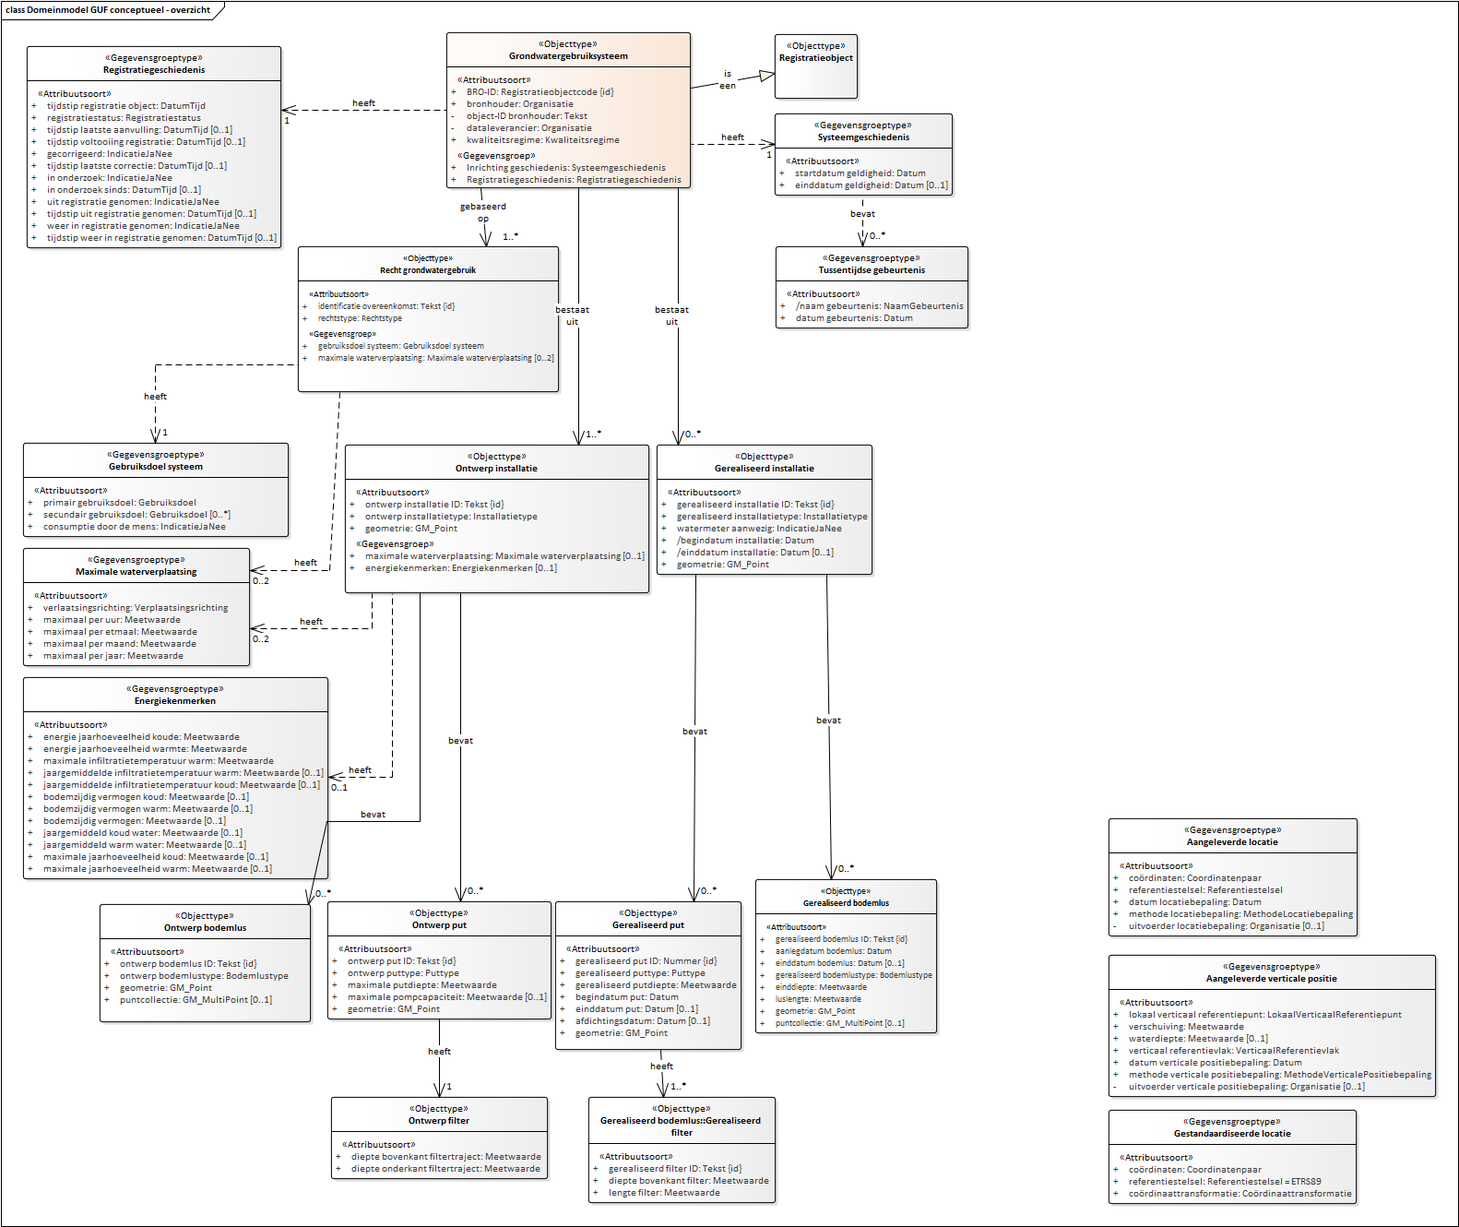
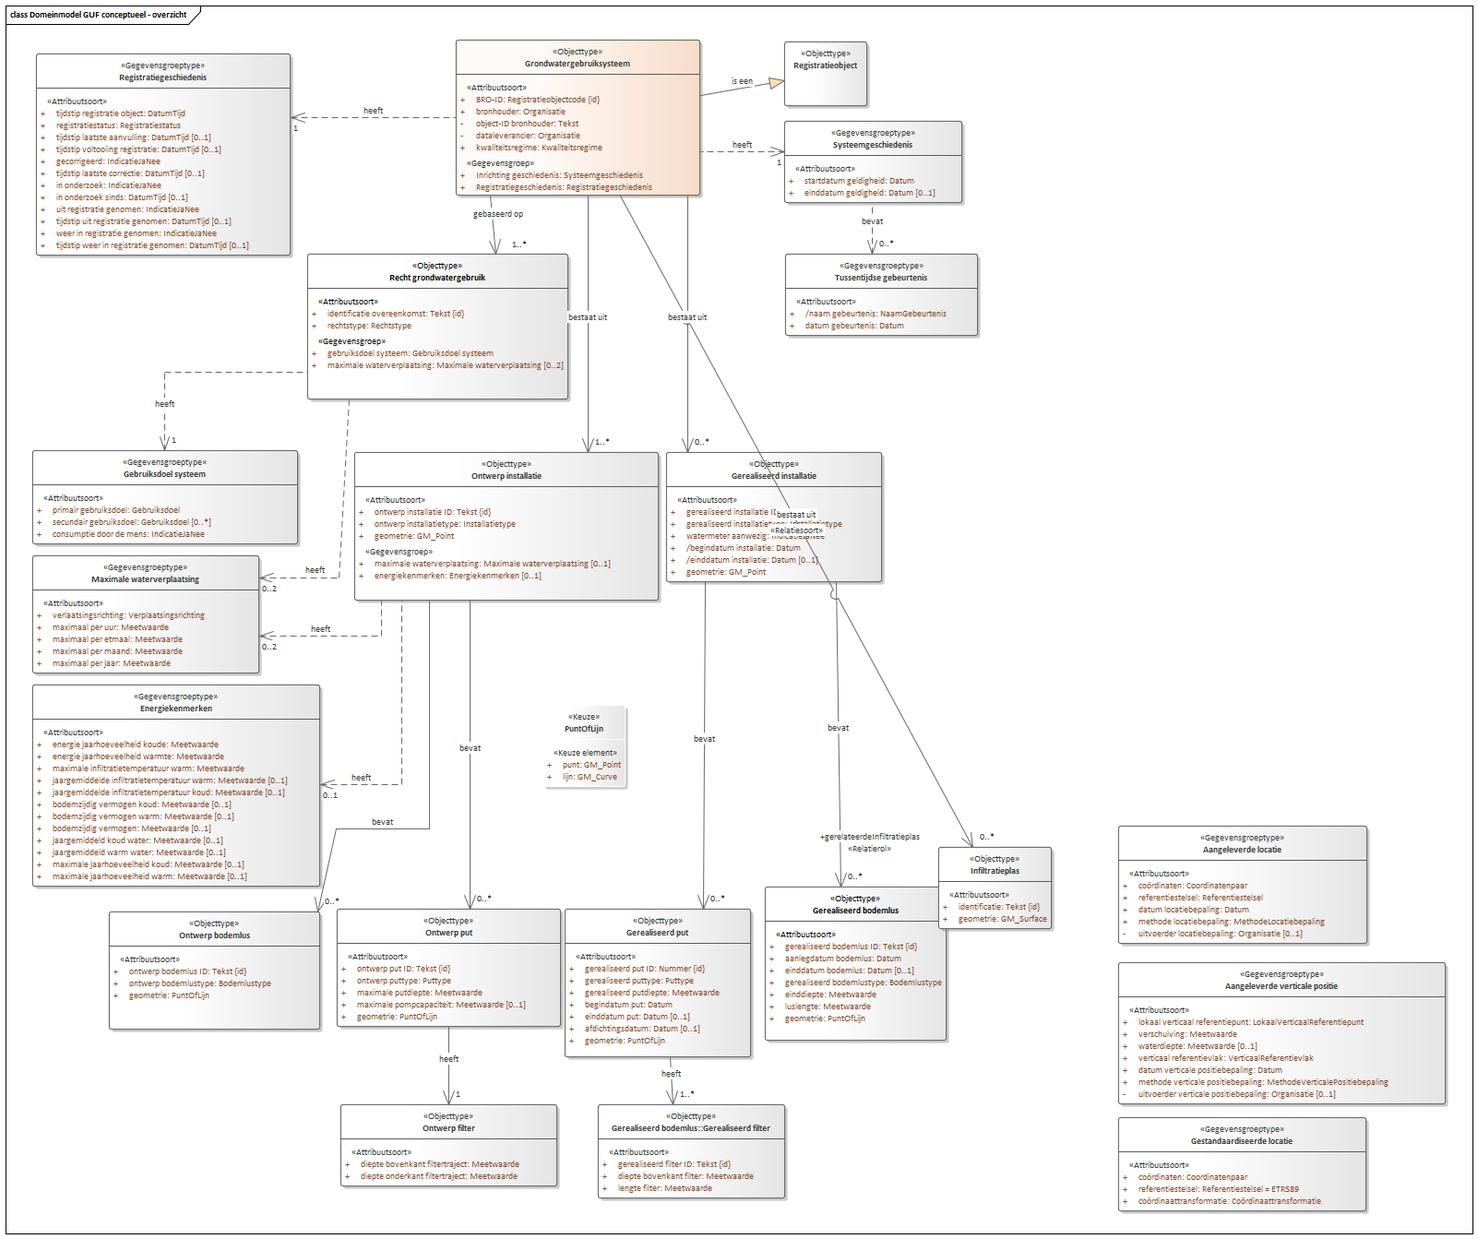
Conceptualmodel-GrondwatergebruikGUFconceptueel-0.1-1-20200401-20201201-100749

diff --git a/data/GUF-cat.msword.html b/data/GUF-cat.msword.html
@@ -15,7 +15,7 @@
    <body>
       <p>Conceptual model/Grondwatergebruik (GUF) conceptueel/20200401</p>
       <p>Imvertor: 1.62.1</p>
-      <p>Model release: Conceptualmodel-GrondwatergebruikGUFconceptueel-0.1-1-20200401-20201130-151610</p>
+      <p>Model release: Conceptualmodel-GrondwatergebruikGUFconceptueel-0.1-1-20200401-20201201-100749</p>
       <hr>
       <section>
          <h1>Artikel 1 Definitie van registratieobject, entiteiten en attributen</h1>
@@ -63,7 +63,7 @@
          <section>
             <h2>Het domeinmodel</h2>
             <section id="">
-               <div class="imageinfo overview"><img src="Images/EAID_56F5F935_4109_4da0_A034_9EA7B40769E1.png" usemap="#imagemap-EAID_56F5F935_4109_4da0_A034_9EA7B40769E1" alt="Diagram "><map name="imagemap-EAID_56F5F935_4109_4da0_A034_9EA7B40769E1"><area shape="rect" alt="Ontwerp filter" coords="359,1189,594,1278" href="#graph_EAID_F9C69DF7_57F6_4a2e_AB62_ABBE414B3C9B"><area shape="rect" alt="Tussentijdse gebeurtenis" coords="841,267,1050,356" href="#graph_EAID_98E530BE_5699_451a_8FC6_9C326ADD0528"><area shape="rect" alt="Systeemgeschiedenis" coords="840,123,1033,212" href="#graph_EAID_2BD94CFC_4D2B_498d_96DC_DF9DE395E7C4"><area shape="rect" alt="Ontwerp bodemlus" coords="108,980,337,1108" href="#graph_EAID_B81BCB5C_B9C7_42d9_9F9E_3F76580BB410"><area shape="rect" alt="Ontwerp put" coords="355,977,598,1105" href="#graph_EAID_FC483397_9430_4114_AE54_A7BE5A654EA9"><area shape="rect" alt="Energiekenmerken" coords="25,734,356,953" href="#graph_EAID_F60FFCA9_A741_4d37_8DFE_FC87122B9777"><area shape="rect" alt="Maximale waterverplaatsing" coords="25,594,271,722" href="#graph_EAID_D88F2231_8D52_4bac_AE7F_55102360A23B"><area shape="rect" alt="Gebruiksdoel systeem" coords="25,480,313,582" href="#graph_EAID_DB9B3E32_EE42_4c47_A5CC_5AE7B58A2D13"><area shape="rect" alt="Gerealiseerd installatie" coords="712,482,946,623" href="#graph_EAID_45C4EF5D_AC27_47cc_926D_7F514776B53D"><area shape="rect" alt="Gestandaardiseerde locatie" coords="1202,1203,1471,1305" href="#graph_EAID_7F1D92D4_092C_4272_8CA2_89F93EA3F12E"><area shape="rect" alt="Aangeleverde verticale positie" coords="1202,1035,1557,1189" href="#graph_EAID_6AA525F0_F1B6_4471_96BE_E1DEF2FCC704"><area shape="rect" alt="Gerealiseerd filter" coords="638,1189,841,1304" href="#graph_EAID_9D151445_53ED_4738_9920_071518BB50C1"><area shape="rect" alt="Recht grondwatergebruik" coords="323,267,606,425" href="#graph_EAID_1A591F8A_2ECC_4122_86C9_26BFA5C5420E"><area shape="rect" alt="Gerealiseerd put" coords="602,977,804,1138" href="#graph_EAID_F75BA1C9_02EB_48e6_B9A8_A018120E2279"><area shape="rect" alt="Gerealiseerd bodemlus" coords="819,953,1016,1120" href="#graph_EAID_D45703EE_CCD5_434c_A478_BFA48D1A9DCB"><area shape="rect" alt="Ontwerp installatie" coords="374,482,704,643" href="#graph_EAID_DB2636FB_090C_4af0_AA40_4301B23795E2"><area shape="rect" alt="Registratiegeschiedenis" coords="29,50,305,269" href="#graph_EAID_C00FA7D7_7F78_413d_80CC_8F5D41996171"><area shape="rect" alt="Aangeleverde locatie" coords="1202,887,1472,1015" href="#graph_EAID_FA55712E_2710_4bb3_A08E_6B62C39189F5"><area shape="rect" alt="Grondwatergebruiksysteem" coords="484,35,749,204" href="#graph_EAID_048DC684_486B_4605_B9CA_40413DB3C9DC"><area shape="rect" alt="Registratieobject" coords="840,37,930,107" href="#graph_EAID_2AC7632D_D0CE_4468_8510_855B506BE12A"></map><p><b>Domeinmodel GUF conceptueel</b></p>
+               <div class="imageinfo overview"><img src="Images/EAID_56F5F935_4109_4da0_A034_9EA7B40769E1.png" usemap="#imagemap-EAID_56F5F935_4109_4da0_A034_9EA7B40769E1" alt="Diagram "><map name="imagemap-EAID_56F5F935_4109_4da0_A034_9EA7B40769E1"><area shape="rect" alt="Infiltratieplas" coords="1017,918,1140,1007" href="#graph_EAID_48E92D7E_DFE4_4e1a_9CBF_EF96B0324D5C"><area shape="rect" alt="Ontwerp filter" coords="369,1197,604,1286" href="#graph_EAID_F9C69DF7_57F6_4a2e_AB62_ABBE414B3C9B"><area shape="rect" alt="Tussentijdse gebeurtenis" coords="851,275,1060,364" href="#graph_EAID_98E530BE_5699_451a_8FC6_9C326ADD0528"><area shape="rect" alt="Systeemgeschiedenis" coords="850,131,1043,220" href="#graph_EAID_2BD94CFC_4D2B_498d_96DC_DF9DE395E7C4"><area shape="rect" alt="Ontwerp bodemlus" coords="118,988,347,1116" href="#graph_EAID_B81BCB5C_B9C7_42d9_9F9E_3F76580BB410"><area shape="rect" alt="Ontwerp put" coords="365,985,608,1113" href="#graph_EAID_FC483397_9430_4114_AE54_A7BE5A654EA9"><area shape="rect" alt="Energiekenmerken" coords="35,742,347,961" href="#graph_EAID_F60FFCA9_A741_4d37_8DFE_FC87122B9777"><area shape="rect" alt="Maximale waterverplaatsing" coords="35,602,281,730" href="#graph_EAID_D88F2231_8D52_4bac_AE7F_55102360A23B"><area shape="rect" alt="Gebruiksdoel systeem" coords="35,488,323,590" href="#graph_EAID_DB9B3E32_EE42_4c47_A5CC_5AE7B58A2D13"><area shape="rect" alt="Gerealiseerd installatie" coords="722,490,956,631" href="#graph_EAID_45C4EF5D_AC27_47cc_926D_7F514776B53D"><area shape="rect" alt="Gestandaardiseerde locatie" coords="1212,1211,1481,1313" href="#graph_EAID_7F1D92D4_092C_4272_8CA2_89F93EA3F12E"><area shape="rect" alt="Aangeleverde verticale positie" coords="1212,1043,1567,1197" href="#graph_EAID_6AA525F0_F1B6_4471_96BE_E1DEF2FCC704"><area shape="rect" alt="Gerealiseerd filter" coords="648,1197,851,1299" href="#graph_EAID_9D151445_53ED_4738_9920_071518BB50C1"><area shape="rect" alt="Recht grondwatergebruik" coords="333,275,616,433" href="#graph_EAID_1A591F8A_2ECC_4122_86C9_26BFA5C5420E"><area shape="rect" alt="Gerealiseerd put" coords="612,985,814,1146" href="#graph_EAID_F75BA1C9_02EB_48e6_B9A8_A018120E2279"><area shape="rect" alt="Gerealiseerd bodemlus" coords="829,961,1026,1128" href="#graph_EAID_D45703EE_CCD5_434c_A478_BFA48D1A9DCB"><area shape="rect" alt="Ontwerp installatie" coords="384,490,714,651" href="#graph_EAID_DB2636FB_090C_4af0_AA40_4301B23795E2"><area shape="rect" alt="Registratiegeschiedenis" coords="39,58,315,277" href="#graph_EAID_C00FA7D7_7F78_413d_80CC_8F5D41996171"><area shape="rect" alt="Aangeleverde locatie" coords="1212,895,1482,1023" href="#graph_EAID_FA55712E_2710_4bb3_A08E_6B62C39189F5"><area shape="rect" alt="Grondwatergebruiksysteem" coords="494,43,759,212" href="#graph_EAID_048DC684_486B_4605_B9CA_40413DB3C9DC"><area shape="rect" alt="Registratieobject" coords="850,45,940,115" href="#graph_EAID_2AC7632D_D0CE_4468_8510_855B506BE12A"></map><p><b>Domeinmodel GUF conceptueel</b></p>
                </div>
             </section>
          </section>
@@ -2797,7 +2797,7 @@
                            </tr>
                            <tr>
                               <th>&nbsp;&nbsp;Naam</th>
-                              <td>GM_Point</td>
+                              <td>PuntOfLijn</td>
                            </tr>
                            <tr>
                               <th>Is afgeleid</th>
@@ -2805,8 +2805,11 @@
                            </tr>
                            <tr>
                               <th>Toelichting</th>
-                              <td>Puntgeometrie gebaseerd op ISO19107 met coördinaten voor de horizontale positie ten
-                                 opzichte van Rijksdriehoekstelsel en de verticale positie ten opzichte van NAP. (EPSG:7415)</td>
+                              <td>Punt- of lijngeometrie gebaseerd op ISO19107 met coördinaten voor de horizontale positie
+                                 ten opzichte van Rijksdriehoekstelsel en de verticale positie ten opzichte van NAP.
+                                 (EPSG:7415)
+                                 
+                                 Bij puntgeometrie wordt de gemiddelde positie van de put opgenomen.</td>
                            </tr>
                         </tbody>
                      </table>
@@ -3070,7 +3073,7 @@
                               <th>Definitie</th>
                               <td>
                                  
-                                 <p>Tweedimensionale (2D) puntgeometrie van de gemiddelde positie van de Ontwerp bodemlus.</p>
+                                 <p>Tweedimensionale (2D) punt- of lijngeometrie van een Ontwerp bodemlus.</p>
                                  </td>
                            </tr>
                            <tr>
@@ -3087,7 +3090,7 @@
                            </tr>
                            <tr>
                               <th>&nbsp;&nbsp;Naam</th>
-                              <td>GM_Point</td>
+                              <td>PuntOfLijn</td>
                            </tr>
                            <tr>
                               <th>Is afgeleid</th>
@@ -3095,55 +3098,8 @@
                            </tr>
                            <tr>
                               <th>Toelichting</th>
-                              <td>Puntgeometrie gebaseerd op ISO19107 met coördinaten ten opzichte van Rijksdriehoekstelsel
+                              <td>Punt- of lijngeometrie gebaseerd op ISO19107 met coördinaten ten opzichte van Rijksdriehoekstelsel
                                  (EPSG:28992).</td>
-                           </tr>
-                        </tbody>
-                     </table>
-                     </section><a class="anchor" id="detail_attribute_Model_Ontwerpbodemlus_puntcollectie"></a><section id="detail_attribute_Model_Ontwerpbodemlus_puntcollectie">
-                     <h4>  puntcollectie</h4>
-                     
-                     <table style="width: 100%;">
-                        <colgroup style="width: 30%;"></colgroup>
-                        <colgroup style="width: 70%;"></colgroup>
-                        <tbody>
-                           <tr>
-                              <th>Type gegeven</th>
-                              <td>Attribuut van Ontwerp bodemlus</td>
-                           </tr>
-                           <tr>
-                              <th>Definitie</th>
-                              <td>
-                                 
-                                 <p>Verzameling van puntgeometrieën die de vorm van een horizontale bodemlus beschrijven.</p>
-                                 </td>
-                           </tr>
-                           <tr>
-                              <th>Juridische status</th>
-                              <td>Authentiek</td>
-                           </tr>
-                           <tr>
-                              <th>Kardinaliteit</th>
-                              <td>0..1</td>
-                           </tr>
-                           <tr>
-                              <th>Domein</th>
-                              <td></td>
-                           </tr>
-                           <tr>
-                              <th>&nbsp;&nbsp;Naam</th>
-                              <td>GM_MultiPoint</td>
-                           </tr>
-                           <tr>
-                              <th>Is afgeleid</th>
-                              <td>Ja</td>
-                           </tr>
-                           <tr>
-                              <th>Toelichting</th>
-                              <td>Multipuntgeometrie gebaseerd op ISO19107.
-                                 
-                                 De puntgeometrieën in de collectie worden in volgorde van beginpunt, eventueel tussenpunten
-                                 en eindpunt opgenomen.</td>
                            </tr>
                         </tbody>
                      </table>
@@ -3780,7 +3736,7 @@
                               <th>Definitie</th>
                               <td>
                                  
-                                 <p>2.5D puntgeometrie van de Gerealiseerde put.</p>
+                                 <p>2.5D punt- of lijngeometrie van de Gerealiseerde put.</p>
                                  </td>
                            </tr>
                            <tr>
@@ -3797,7 +3753,7 @@
                            </tr>
                            <tr>
                               <th>&nbsp;&nbsp;Naam</th>
-                              <td>GM_Point</td>
+                              <td>PuntOfLijn</td>
                            </tr>
                            <tr>
                               <th>Is afgeleid</th>
@@ -3805,8 +3761,9 @@
                            </tr>
                            <tr>
                               <th>Toelichting</th>
-                              <td>Puntgeometrie gebaseerd op ISO19107 met coördinaten voor de horizontale positie ten
-                                 opzichte van Rijksdriehoekstelsel en de verticale positie ten opzichte van NAP. (EPSG:7415)</td>
+                              <td>Punt- of lijngeometrie gebaseerd op ISO19107 met coördinaten voor de horizontale positie
+                                 ten opzichte van Rijksdriehoekstelsel en de verticale positie ten opzichte van NAP.
+                                 (EPSG:7415)</td>
                            </tr>
                         </tbody>
                      </table>
@@ -4282,8 +4239,7 @@
                               <th>Definitie</th>
                               <td>
                                  
-                                 <p>Tweedimensionale (2D) puntgeometrie van de gemiddelde positie van de Gerealiseerde
-                                    bodemlus.</p>
+                                 <p>Tweedimensionale punt- of lijngeometrie van de Gerealiseerde bodemlus.</p>
                                  </td>
                            </tr>
                            <tr>
@@ -4300,7 +4256,7 @@
                            </tr>
                            <tr>
                               <th>&nbsp;&nbsp;Naam</th>
-                              <td>GM_Point</td>
+                              <td>PuntOfLijn</td>
                            </tr>
                            <tr>
                               <th>Is afgeleid</th>
@@ -4308,62 +4264,15 @@
                            </tr>
                            <tr>
                               <th>Toelichting</th>
-                              <td>Puntgeometrie gebaseerd op ISO19107 met coördinaten ten opzichte van Rijksdriehoekstelsel
+                              <td>Punt- of lijngeometrie gebaseerd op ISO19107 met coördinaten ten opzichte van Rijksdriehoekstelsel
                                  (EPSG:28992).</td>
-                           </tr>
-                        </tbody>
-                     </table>
-                     </section><a class="anchor" id="detail_attribute_Model_Gerealiseerdbodemlus_puntcollectie"></a><section id="detail_attribute_Model_Gerealiseerdbodemlus_puntcollectie">
-                     <h4>  puntcollectie</h4>
-                     
-                     <table style="width: 100%;">
-                        <colgroup style="width: 30%;"></colgroup>
-                        <colgroup style="width: 70%;"></colgroup>
-                        <tbody>
-                           <tr>
-                              <th>Type gegeven</th>
-                              <td>Attribuut van Gerealiseerd bodemlus</td>
-                           </tr>
-                           <tr>
-                              <th>Definitie</th>
-                              <td>
-                                 
-                                 <p>Verzameling van puntgeometrieën die de vorm van een horizontale bodemlus beschrijven.</p>
-                                 </td>
-                           </tr>
-                           <tr>
-                              <th>Juridische status</th>
-                              <td>Authentiek</td>
-                           </tr>
-                           <tr>
-                              <th>Kardinaliteit</th>
-                              <td>0..1</td>
-                           </tr>
-                           <tr>
-                              <th>Domein</th>
-                              <td></td>
-                           </tr>
-                           <tr>
-                              <th>&nbsp;&nbsp;Naam</th>
-                              <td>GM_MultiPoint</td>
-                           </tr>
-                           <tr>
-                              <th>Is afgeleid</th>
-                              <td>Ja</td>
-                           </tr>
-                           <tr>
-                              <th>Toelichting</th>
-                              <td>Multipuntgeometrie gebaseerd op ISO19107.
-                                 
-                                 De puntgeometrieën in de collectie worden in volgorde van beginpunt, eventueel tussenpunten
-                                 en eindpunt opgenomen.</td>
                            </tr>
                         </tbody>
                      </table>
                      </section>
                </section><a class="anchor" id="graph_EAID_FA55712E_2710_4bb3_A08E_6B62C39189F5"></a><a class="anchor" id="global_class_Model_Aangeleverdelocatie"></a><section id="global_class_Model_Aangeleverdelocatie">
                   <h3>   Aangeleverde locatie</h3>
-                  <div class="imageinfo "><img src="Images/EAID_352ADFD2_B17C_4ccd_BDE4_BE5B80DE66CC.png" usemap="#imagemap-EAID_352ADFD2_B17C_4ccd_BDE4_BE5B80DE66CC" alt="Diagram "><map name="imagemap-EAID_352ADFD2_B17C_4ccd_BDE4_BE5B80DE66CC"><area shape="rect" alt="Aangeleverde locatie" coords="25,35,298,136" href="#graph_EAID_FA55712E_2710_4bb3_A08E_6B62C39189F5"></map><p><b></b></p>
+                  <div class="imageinfo "><img src="Images/EAID_352ADFD2_B17C_4ccd_BDE4_BE5B80DE66CC.png" usemap="#imagemap-EAID_352ADFD2_B17C_4ccd_BDE4_BE5B80DE66CC" alt="Diagram "><map name="imagemap-EAID_352ADFD2_B17C_4ccd_BDE4_BE5B80DE66CC"><area shape="rect" alt="Aangeleverde locatie" coords="35,46,308,147" href="#graph_EAID_FA55712E_2710_4bb3_A08E_6B62C39189F5"></map><p><b></b></p>
                   </div>
                   <table style="width: 100%;">
                      <colgroup style="width: 30%;"></colgroup>
@@ -4633,7 +4542,7 @@
                      </section>
                </section><a class="anchor" id="graph_EAID_6AA525F0_F1B6_4471_96BE_E1DEF2FCC704"></a><a class="anchor" id="global_class_Model_Aangeleverdeverticalepositie"></a><section id="global_class_Model_Aangeleverdeverticalepositie">
                   <h3>   Aangeleverde verticale positie</h3>
-                  <div class="imageinfo "><img src="Images/EAID_739CAA02_63BE_41c7_A594_0D808B98DA10.png" usemap="#imagemap-EAID_739CAA02_63BE_41c7_A594_0D808B98DA10" alt="Diagram "><map name="imagemap-EAID_739CAA02_63BE_41c7_A594_0D808B98DA10"><area shape="rect" alt="Aangeleverde verticale positie" coords="25,35,380,162" href="#graph_EAID_6AA525F0_F1B6_4471_96BE_E1DEF2FCC704"></map><p><b></b></p>
+                  <div class="imageinfo "><img src="Images/EAID_739CAA02_63BE_41c7_A594_0D808B98DA10.png" usemap="#imagemap-EAID_739CAA02_63BE_41c7_A594_0D808B98DA10" alt="Diagram "><map name="imagemap-EAID_739CAA02_63BE_41c7_A594_0D808B98DA10"><area shape="rect" alt="Aangeleverde verticale positie" coords="35,46,349,173" href="#graph_EAID_6AA525F0_F1B6_4471_96BE_E1DEF2FCC704"></map><p><b></b></p>
                   </div>
                   <table style="width: 100%;">
                      <colgroup style="width: 30%;"></colgroup>
@@ -5178,6 +5087,76 @@
                            <tr>
                               <th>&nbsp;&nbsp;Naam</th>
                               <td>Coördinaattransformatie</td>
+                           </tr>
+                        </tbody>
+                     </table>
+                     </section>
+               </section><a class="anchor" id="graph_EAID_48E92D7E_DFE4_4e1a_9CBF_EF96B0324D5C"></a><a class="anchor" id="global_class_Model_Infiltratieplas"></a><section id="global_class_Model_Infiltratieplas">
+                  <h3>   Infiltratieplas</h3>
+                  <table style="width: 100%;">
+                     <colgroup style="width: 30%;"></colgroup>
+                     <colgroup style="width: 70%;"></colgroup>
+                     <tbody>
+                        <tr>
+                           <th>Type gegeven</th>
+                           <td>Entiteit</td>
+                        </tr>
+                     </tbody>
+                  </table><a class="anchor" id="detail_attribute_Model_Infiltratieplas_identificatie"></a><section id="detail_attribute_Model_Infiltratieplas_identificatie">
+                     <h4>  identificatie</h4>
+                     
+                     <table style="width: 100%;">
+                        <colgroup style="width: 30%;"></colgroup>
+                        <colgroup style="width: 70%;"></colgroup>
+                        <tbody>
+                           <tr>
+                              <th>Type gegeven</th>
+                              <td>Attribuut van Infiltratieplas</td>
+                           </tr>
+                           <tr>
+                              <th>Juridische status</th>
+                              <td>Authentiek</td>
+                           </tr>
+                           <tr>
+                              <th>Kardinaliteit</th>
+                              <td>1</td>
+                           </tr>
+                           <tr>
+                              <th>Domein</th>
+                              <td></td>
+                           </tr>
+                           <tr>
+                              <th>&nbsp;&nbsp;Naam</th>
+                              <td>Tekst </td>
+                           </tr>
+                        </tbody>
+                     </table>
+                     </section><a class="anchor" id="detail_attribute_Model_Infiltratieplas_geometrie"></a><section id="detail_attribute_Model_Infiltratieplas_geometrie">
+                     <h4>  geometrie</h4>
+                     
+                     <table style="width: 100%;">
+                        <colgroup style="width: 30%;"></colgroup>
+                        <colgroup style="width: 70%;"></colgroup>
+                        <tbody>
+                           <tr>
+                              <th>Type gegeven</th>
+                              <td>Attribuut van Infiltratieplas</td>
+                           </tr>
+                           <tr>
+                              <th>Juridische status</th>
+                              <td>Authentiek</td>
+                           </tr>
+                           <tr>
+                              <th>Kardinaliteit</th>
+                              <td>1</td>
+                           </tr>
+                           <tr>
+                              <th>Domein</th>
+                              <td></td>
+                           </tr>
+                           <tr>
+                              <th>&nbsp;&nbsp;Naam</th>
+                              <td>GM_Surface</td>
                            </tr>
                         </tbody>
                      </table>
